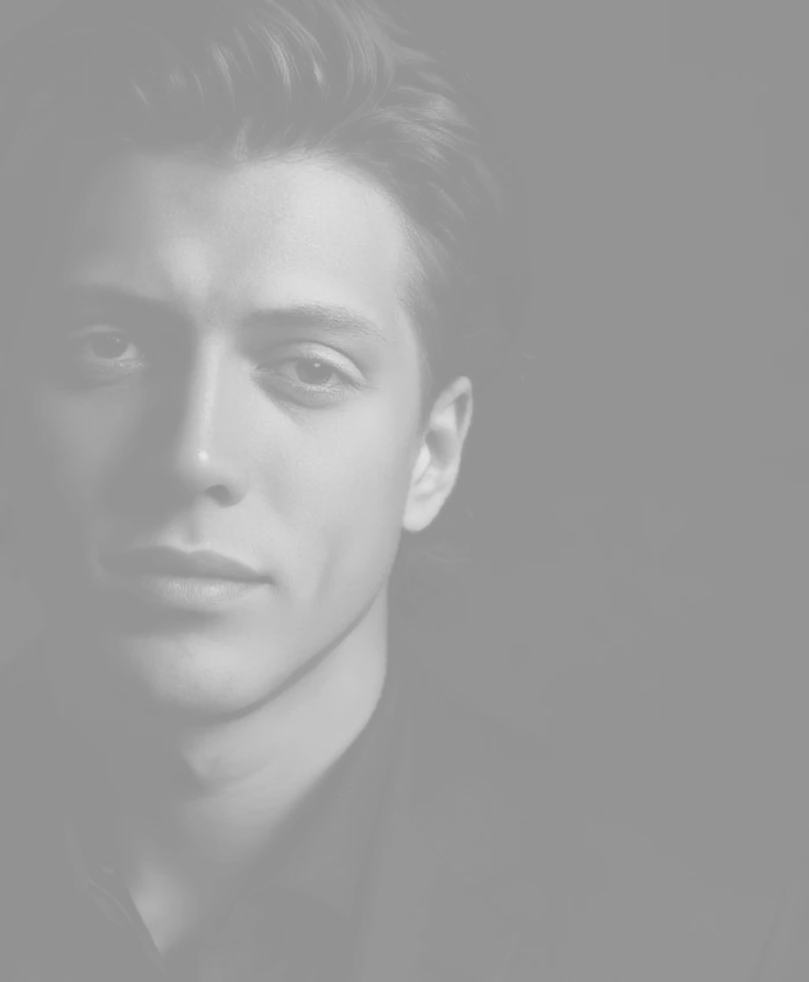
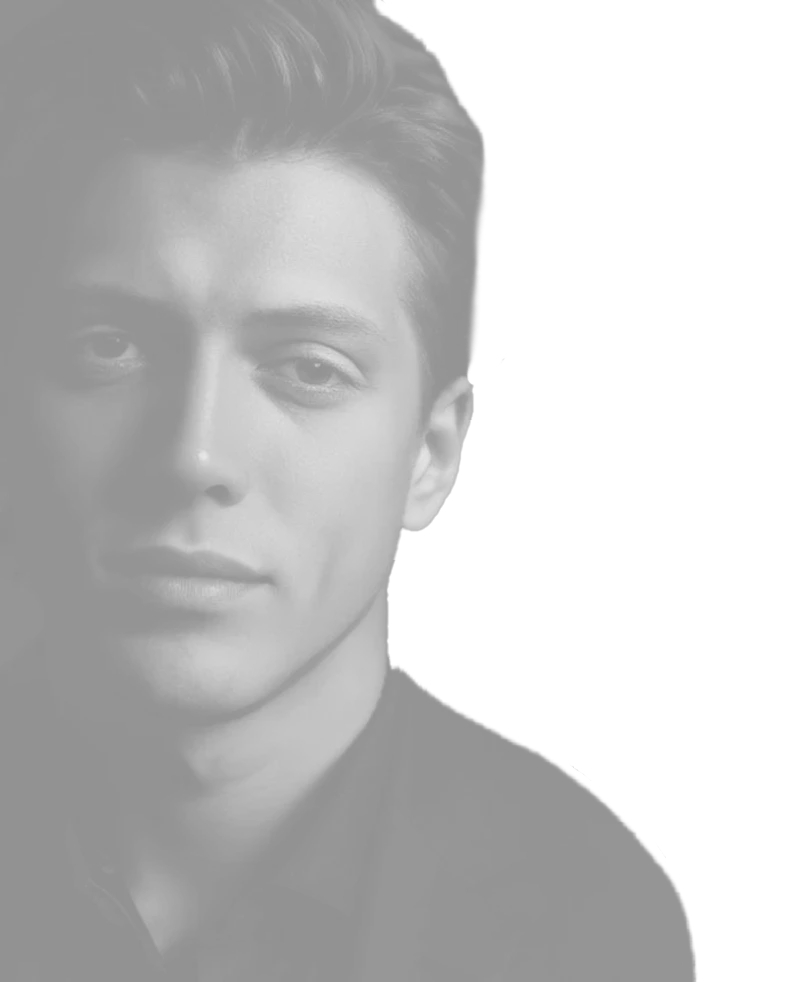
Aggiungi un gradiente radiale e migliora la visibilità dell'immagine nella sezione hero per una maggiore coesione visiva

diff --git a/src/components/hero.vue b/src/components/hero.vue
@@ -1,35 +1,56 @@
 <template>
-  <section aria-labelledby="hero-title" class="w-full bg-black">
+  <section aria-labelledby="hero-title" class="relative w-full bg-black min-h-screen">
+    <!-- Full-bleed radial gradient layer for the hero (soft, behind content) -->
+    <div
+      ref="gradientRef"
+      class="absolute inset-0 pointer-events-none z-0"
+      :style="{
+        background: 'radial-gradient(circle at 70% 50%, rgba(59,130,246,0.22), rgba(29,78,216,0.16) 28%, rgba(30,58,138,0.10) 60%)'
+      }"
+    ></div>
+
     <div class="max-w-screen-xl mx-auto px-6 py-16 md:py-24">
-      <div class="grid md:grid-cols-2 gap-12 items-center">
+      <div class="grid md:grid-cols-12 gap-12 items-center min-h-screen">
         <!-- LEFT: subtle image / pattern -->
-        <div class="order-2 md:order-1 flex items-center justify-center">
-          <!-- increase portrait visibility: full opacity, higher contrast/brightness/saturation, slightly larger -->
-          <img src="../assets/hero-riccardo.webp" alt="Portrait of Riccardo Cassis" class="w-full max-w-xl object-cover opacity-100 filter contrast-150 brightness-110 saturate-110 rounded-lg shadow-2xl transform scale-105" />
+        <div class="order-2 md:order-1 md:col-span-7 flex items-center justify-center">
+          <div class="relative w-full h-[72vh] md:h-[86vh] lg:h-[92vh] overflow-visible">
+            <!-- Large side image: full-bleed within its column, toned down for better cohesion -->
+            <img
+              src="../assets/hero-riccardo.webp"
+              alt="Portrait of Riccardo Cassis"
+              class="absolute left-0 top-0 w-[120%] md:w-[140%] h-full object-cover brightness-[1.06] contrast-110 saturate-95 opacity-70 transform scale-[1.33] -translate-x-[8%] md:-translate-x-[18%] md:translate-y-0 z-20"
+            />
+
+            <!-- Softer overlay to gently blend the image with the blue background -->
+            <div class="absolute inset-0 pointer-events-none z-30" aria-hidden>
+              <!-- Use a softer custom linear gradient to avoid hard rectangular bands -->
+              <div class="absolute inset-0" :style="{ background: 'linear-gradient(90deg, rgba(2,6,23,0.06) 0%, rgba(2,6,23,0.04) 40%, transparent 100%)' }"></div>
+            </div>
+          </div>
         </div>
 
         <!-- RIGHT: textual content -->
-        <div class="order-1 md:order-2 text-left text-white">
-          <div class="space-y-6 md:space-y-8 lg:space-y-10">
-            <h1 ref="titleRef" id="hero-title" class="text-3xl md:text-5xl lg:text-6xl font-extrabold leading-tight">
-              Riccardo Cassis UI/UX & Web Designer
-            </h1>
+        <div class="order-1 md:order-2 md:col-span-5 text-left text-white">
+          <div class="relative z-40 pl-6 md:pl-12 lg:pl-20">
+            <div class="space-y-6 md:space-y-8 lg:space-y-10">
+              <h1 ref="titleRef" id="hero-title" class="text-3xl md:text-5xl lg:text-6xl font-extrabold leading-tight">
+                Riccardo Cassis UI/UX & Web Designer
+              </h1>
 
-            <p ref="subtitleRef" class="text-lg md:text-xl text-white/90 max-w-2xl">
-              Progetto interfacce chiare e flussi ordinati, unendo design e front-end leggero.
-            </p>
+              <p ref="subtitleRef" class="text-lg md:text-xl text-white/90 max-w-2xl">
+                Progetto interfacce chiare e flussi ordinati, unendo design e front-end leggero.
+              </p>
 
-            <p class="text-sm md:text-base text-white/70 max-w-xl">
-              Creo soluzioni semplici e utili attraverso un approccio pratico e orientato al problema.
-            </p>
+              <p class="text-sm md:text-base text-white/70 max-w-xl">
+                Creo soluzioni semplici e utili attraverso un approccio pratico e orientato al problema.
+              </p>
 
-            <div class="pt-2">
-              <RouterLink to="/projects" ref="ctaRef" class="inline-block bg-blue-600 text-white px-6 py-3 rounded-lg hover:bg-blue-700 transition">
-                Esplora i miei progetti
-              </RouterLink>
+              <div class="pt-2">
+                <RouterLink to="/projects" ref="ctaRef" class="inline-block bg-blue-600 text-white px-6 py-3 rounded-lg hover:bg-blue-700 transition">
+                  Esplora i miei progetti
+                </RouterLink>
+              </div>
             </div>
-
-            
           </div>
         </div>
       </div>
@@ -48,8 +69,10 @@ gsap.registerPlugin(ScrollTrigger)
 const titleRef = ref(null)
 const subtitleRef = ref(null)
 const ctaRef = ref(null)
+const gradientRef = ref(null)
 
 let tl = null
+let gradTween = null
 
 onMounted(() => {
   // timeline for hero elements: fade + translateY
@@ -63,12 +86,27 @@ onMounted(() => {
   if (navItems && navItems.length) {
     gsap.from(navItems, { y: -8, opacity: 0, stagger: 0.08, duration: 0.45, ease: 'power2.out' })
   }
+
+  // subtle 'breathing' radial gradient behind the text
+  if (gradientRef.value) {
+    gradTween = gsap.to(gradientRef.value, {
+      scale: 1.08,
+      x: 24,
+      y: -16,
+      duration: 12,
+      yoyo: true,
+      repeat: -1,
+      ease: 'sine.inOut',
+      transformOrigin: '50% 50%'
+    })
+  }
 })
 
 onBeforeUnmount(() => {
   try {
     if (tl) tl.kill()
     ScrollTrigger.getAll().forEach(t => t.kill())
+    if (gradTween) gradTween.kill()
   } catch (e) {
     // ignore
   }
